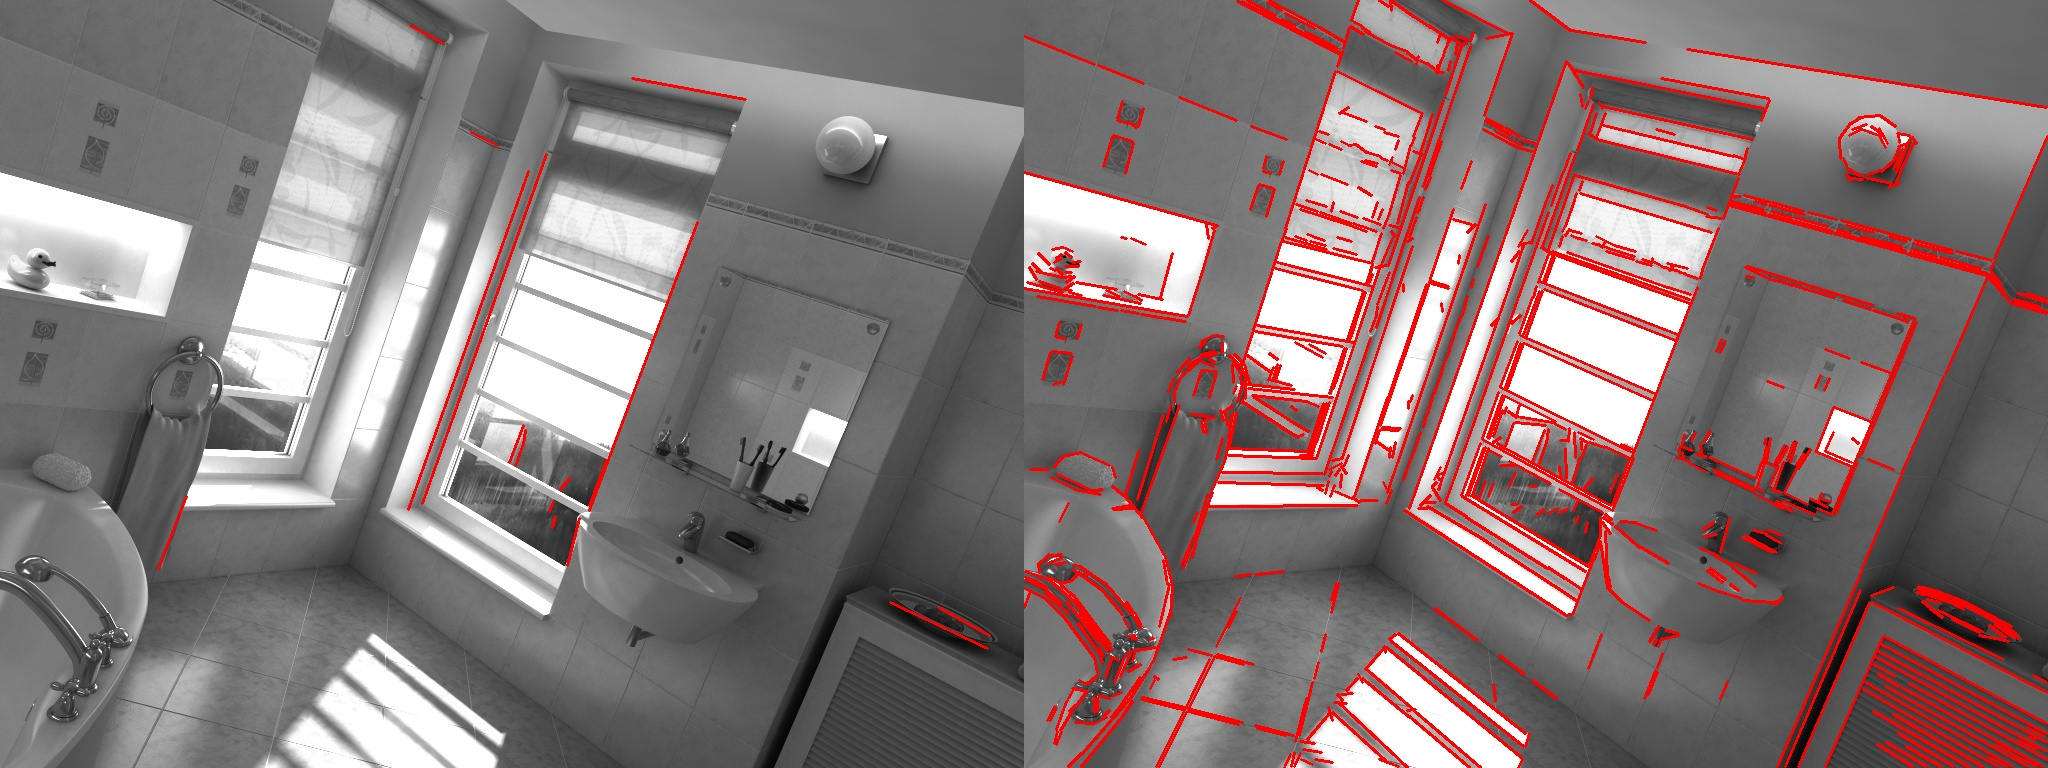
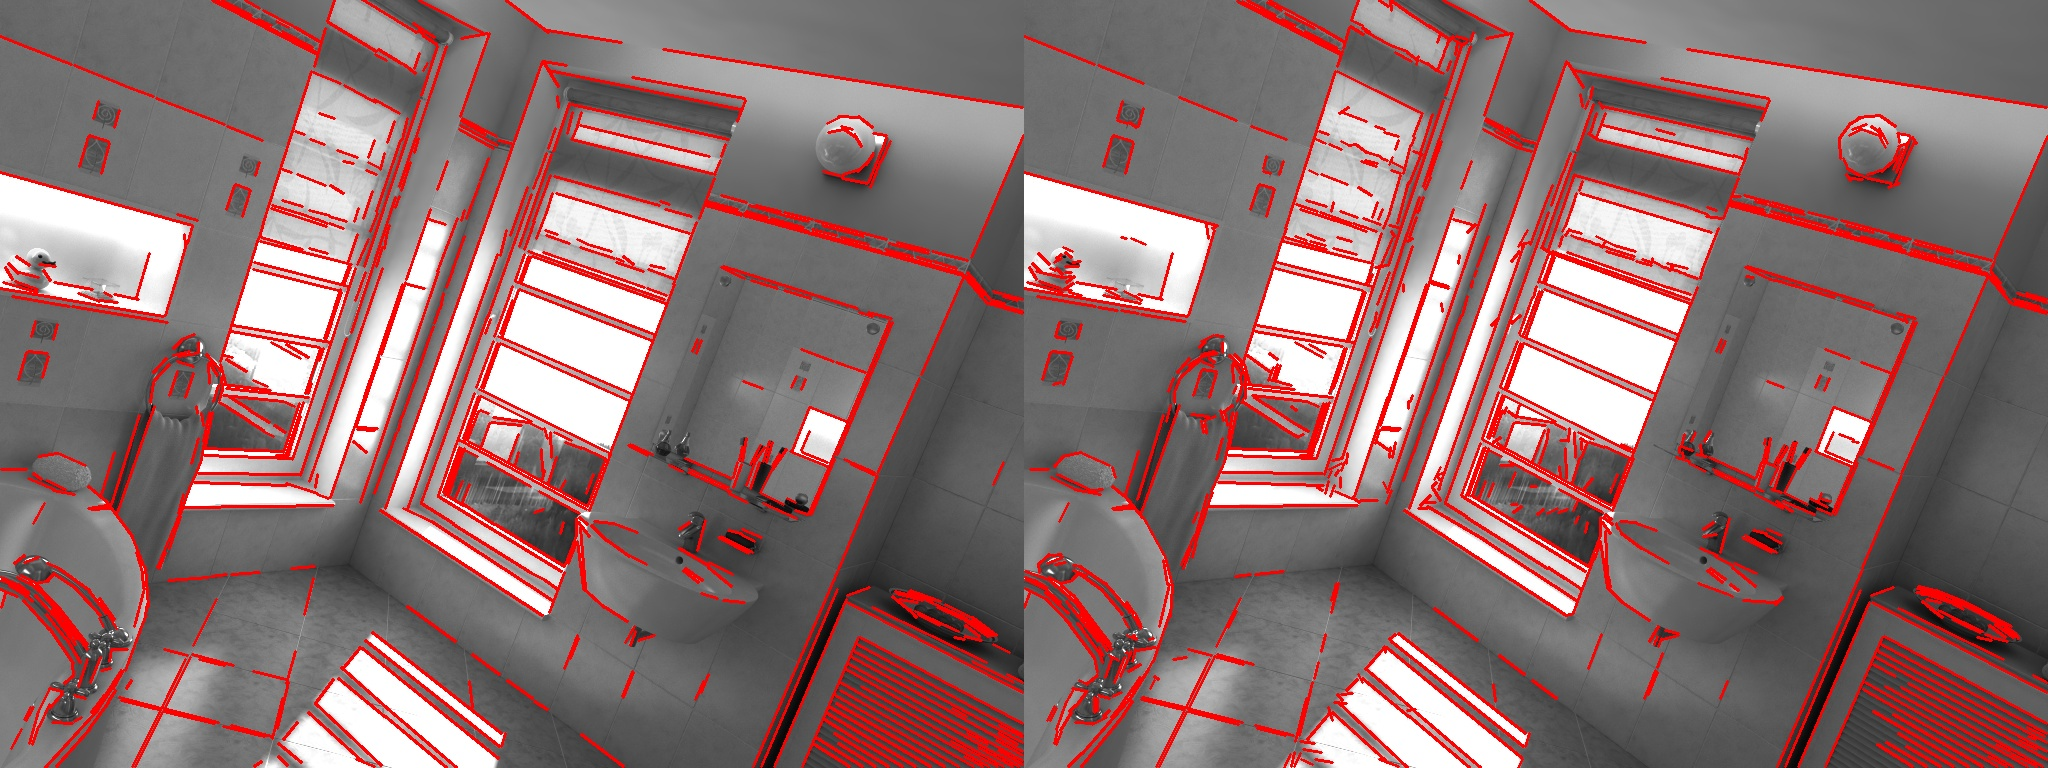
Update pytlsd

diff --git a/test/test_lsd.cpp b/test/test_lsd.cpp
@@ -69,10 +69,10 @@ std::vector<Line> pytlsd(cv::Mat& gray_img)
     std::vector<Line> lines;
     for (int i = 0; i < N; ++i)
     {
-        double x1 = out[7 * i];
-        double y1 = out[7 * i + 1];
-        double x2 = out[7 * i + 2];
-        double y2 = out[7 * i + 3];
+        double x1 = out[5 * i];
+        double y1 = out[5 * i + 1];
+        double x2 = out[5 * i + 2];
+        double y2 = out[5 * i + 3];
         lines.emplace_back(cv::Point2d(x1, y1), cv::Point2d(x2, y2));
     }
 
